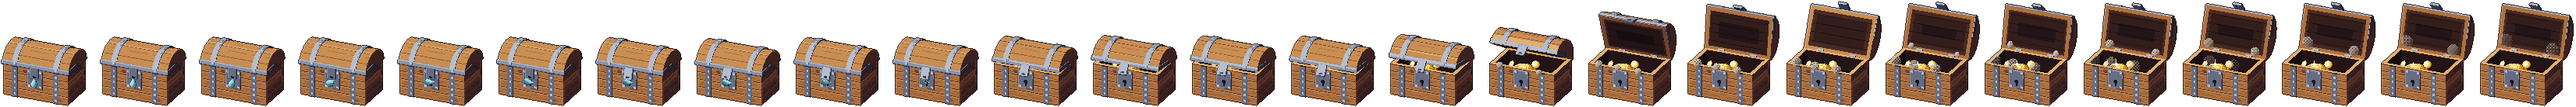
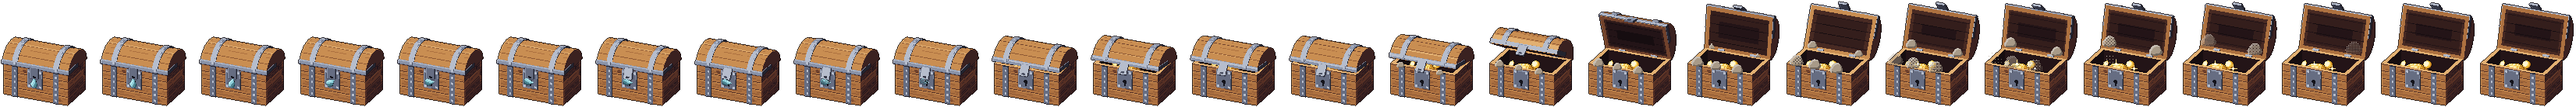
wip(props): сундуки — клубы пыли, конец полос чистый, тесты
Claude-Session: https://claude.ai/code/session_018QnrYRe8jfmREkVPy3Dca8

diff --git a/src/lib/props-pixel-chests.test.ts b/src/lib/props-pixel-chests.test.ts
@@ -1,0 +1,144 @@
+import path from 'node:path';
+import { describe, expect, it } from 'vitest';
+import type { Px } from './dungeon-art';
+import * as chests from './props-pixel/chests';
+import { LID_OPEN, RES, STRIPS, TIERS, __test, frame } from './props-pixel/chests';
+import { PX } from './props-pixel/sprites-chests';
+import { manifestProblems, pxDiff, sameBytes, seamRatio } from './props-pixel/testkit';
+import type { Res } from './props-pixel/types';
+
+const ROOT = path.resolve(__dirname, '../..');
+
+/** Рамка непрозрачных пикселей кадра: [x0, y0, x1, y1]. */
+function bbox(p: Px): [number, number, number, number] {
+  const b: [number, number, number, number] = [p.w, p.h, -1, -1];
+  for (let y = 0; y < p.h; y++)
+    for (let x = 0; x < p.w; x++)
+      if (p.data[(y * p.w + x) * 4 + 3] > 0) {
+        b[0] = Math.min(b[0], x);
+        b[1] = Math.min(b[1], y);
+        b[2] = Math.max(b[2], x);
+        b[3] = Math.max(b[3], y);
+      }
+  return b;
+}
+
+const resOf = (name: string): Res[] => (STRIPS[name].res ?? ['s', 'l']) as Res[];
+
+describe('пиксельные сундуки', () => {
+  it('кадр детерминирован, размер холста — по разрешению; вращение только крупное', () => {
+    for (const name of Object.keys(STRIPS))
+      for (const res of resOf(name)) {
+        const a = frame(name, 1, res);
+        expect([a.w, a.h]).toEqual([RES[res].cw, RES[res].ch]);
+        expect(sameBytes(a, frame(name, 1, res))).toBe(true);
+      }
+    expect(STRIPS['mystery-spin'].res).toEqual(['l']);
+  });
+
+  it('манифест и файлы сходятся с рисовальщиком', () => {
+    expect(manifestProblems(chests, PX, ROOT)).toEqual([]);
+  });
+
+  it('петли без шва: покой всех пяти и вращение', () => {
+    for (const k of ['common', 'rare', 'epic', 'legend', 'mystery'])
+      expect(seamRatio(chests, `idle-${k}`, 's'), k).toBeLessThanOrEqual(1);
+    expect(seamRatio(chests, 'mystery-spin', 'l')).toBeLessThanOrEqual(1);
+  });
+
+  it('вращение: кадр 0 — тот же тёмный сундук, что в покое; два оборота за 0,9 с', () => {
+    expect(sameBytes(frame('mystery-spin', 0, 'l'), frame('idle-mystery', 0, 'l'))).toBe(true);
+    const st = STRIPS['mystery-spin'];
+    expect(st.frames / st.fps).toBeGreaterThan(0.85);
+    expect(st.frames / st.fps).toBeLessThan(0.95);
+    const y = (i: number) => __test.poseOf('mystery-spin', i / st.fps).yaw;
+    expect(y(st.frames) - y(0)).toBeCloseTo(4 * Math.PI, 6);
+  });
+
+  it('метки открытия по порядку и внутри полосы; якорь замка у всех ярусов один', () => {
+    for (const t of TIERS) {
+      const st = STRIPS[`open-${t}`];
+      const m = st.marks!;
+      expect(m.turn).toBeLessThan(m.latch);
+      expect(m.latch).toBeLessThan(m.lidOpen);
+      expect(m.lidOpen).toBeLessThanOrEqual(m.peak);
+      expect(m.peak).toBeLessThan(st.frames - 4);
+      expect(st.anchors?.lock).toEqual(STRIPS[`idle-${t}`].anchors?.lock);
+    }
+    // Старшим — дольше: лестница редкости в длине открытия и в моменте крышки.
+    const len = TIERS.map((t) => STRIPS[`open-${t}`].frames);
+    expect([...len].sort((a, b) => a - b)).toEqual(len);
+    const lid = TIERS.map((t) => STRIPS[`open-${t}`].marks!.lidOpen);
+    expect([...lid].sort((a, b) => a - b)).toEqual(lid);
+  });
+
+  it('ключ поворачивается и тает до того, как тронется крышка; защёлка — до крышки', () => {
+    for (const t of TIERS) {
+      const st = STRIPS[`open-${t}`];
+      const m = st.marks!;
+      const P = (i: number) => __test.poseOf(`open-${t}`, i / st.fps);
+      expect(P(0).keyVis).toBe(1);
+      expect(P(0).key).toBe(0);
+      expect(P(m.latch).key).toBeCloseTo(Math.PI / 2, 3);
+      expect(P(m.latch).hasp).toBeGreaterThan(0);
+      for (let i = 0; i < m.lidOpen; i++) expect(P(i).lid, `${t} ${i}`).toBeLessThan(0.25);
+      expect(P(m.lidOpen + 1).keyVis).toBe(0);
+    }
+  });
+
+  it('последний кадр открытия — покой: крышка на упоре, эффекты кончились', () => {
+    for (const t of TIERS) {
+      const name = `open-${t}`;
+      const n = STRIPS[name].frames;
+      const o = __test.poseOf(name, (n - 1) / STRIPS[name].fps);
+      expect(o.lid).toBeCloseTo(LID_OPEN, 6);
+      expect([o.keyVis, o.beam, o.flash, o.leak, o.lift, o.shx, o.roll]).toEqual([0, 0, 0, 0, 0, 0, 0]);
+      expect([o.sz, o.sxy]).toEqual([1, 1]);
+      // Два последних кадра одинаковы: пыль, искры и монеты погасли раньше.
+      for (const res of ['s', 'l'] as Res[])
+        expect(sameBytes(frame(name, n - 1, res), frame(name, n - 2, res)), `${name}/${res}`).toBe(
+          true,
+        );
+    }
+  });
+
+  it('кадр 0 покоя — закрытая иконка; открытие начинается с неё же (разница — только ключ)', () => {
+    for (const t of TIERS) {
+      const p = __test.poseOf(`idle-${t}`, 0);
+      expect(p.sheen).toBe(-1);
+      expect([p.lid, p.lift, p.twinkle, p.keyVis]).toEqual([0, 0, 0, 0]);
+      const d = pxDiff(frame(`open-${t}`, 0, 's'), frame(`idle-${t}`, 0, 's'));
+      expect(d, t).toBeGreaterThan(0);
+      expect(d, t).toBeLessThan(0.03);
+    }
+  });
+
+  it('крышка на задней петле: открытая поднимается над закрытой, дно стоит на месте', () => {
+    for (const t of TIERS) {
+      const shut = bbox(frame(`idle-${t}`, 0, 'l'));
+      const open = bbox(frame(`open-${t}`, -1 + STRIPS[`open-${t}`].frames, 'l'));
+      // Крышка встаёт вверх и назад — выше закрытой минимум на треть высоты корпуса.
+      expect(shut[1] - open[1], t).toBeGreaterThan(20);
+      // Дно и левый (передний) бок — те же: сундук не сдвинулся, крышка не вылезла вперёд.
+      expect(Math.abs(open[3] - shut[3]), t).toBeLessThanOrEqual(1);
+      expect(Math.abs(open[0] - shut[0]), t).toBeLessThanOrEqual(3);
+      // Сундук повёрнут задом вправо: откинутая назад крышка выходит вправо, но немного.
+      expect(open[2] - shut[2], t).toBeGreaterThanOrEqual(0);
+      expect(open[2] - shut[2], t).toBeLessThanOrEqual(16);
+    }
+  });
+
+  it('ничего не касается края холста (запас на свет и монеты)', () => {
+    for (const name of ['open-legend', 'open-epic', 'mystery-spin'])
+      for (const res of resOf(name)) {
+        const n = STRIPS[name].frames;
+        for (let i = 0; i < n; i += 3) {
+          const [x0, y0, x1, y1] = bbox(frame(name, i, res));
+          if (x1 < 0) continue;
+          expect(x0 > 0 && y0 > 0 && x1 < RES[res].cw - 1 && y1 < RES[res].ch - 1, `${name}/${res} #${i}`).toBe(
+            true,
+          );
+        }
+      }
+  });
+});

diff --git a/src/lib/props-pixel/chests.ts b/src/lib/props-pixel/chests.ts
@@ -1554,15 +1554,16 @@ function openPose(tier: Tier, t: number): Pose {
       [0.33, 0.5],
       [0.4, 0.62],
     ]);
+    // Тёплая щель горит и в покое (0,32): полоса начинается с того же света.
     o.leak =
       kf(t, [
-        [0.06, 0],
-        [0.25, 0.4],
+        [0, 0.32],
+        [0.25, 0.42],
         [0.9, 1],
         [1.0, 1],
         [1.05, 0],
       ]) *
-      (0.85 + 0.15 * Math.sin(t * 40));
+      (1 - 0.15 * (0.5 - 0.5 * Math.cos(t * 40)));
     if (t > 0.25 && t < 0.93) {
       const u = (t - 0.25) / 0.68;
       const a = 0.4 + 1.6 * u * u;
@@ -1608,7 +1609,7 @@ function openPose(tier: Tier, t: number): Pose {
     o.inner = kf(t, [
       [1.04, 0],
       [1.1, 1],
-      [2.25, 0.75],
+      [2.0, 0.75],
     ]);
     o.beam = kf(t, [
       [1.07, 0],
@@ -1720,19 +1721,28 @@ function sparkle(p: Px, x: number, y: number, d: number, life: number, col: RGBA
   }
 }
 
-/** Пятно-клуб пыли: круг, светлый верх-слева, проявление шахматкой. */
+/** Клуб пыли: три круга (крупный и два мельче снизу по бокам), светлая кромка сверху-слева,
+ *  тёмная снизу-справа, проявление шахматкой. */
+const PUFF: [number, number, number][] = [
+  [0, 0, 1],
+  [-0.62, 0.3, 0.66],
+  [0.6, 0.34, 0.6],
+];
 function puff(p: Px, x: number, y: number, d: number, r: number, vis: number, base: RGBA): void {
   const R = r * RR;
   const lite = mixc(base, WHITE, 0.35);
   const dark = mixc(base, INK, 0.35);
+  const inside = (px: number, py: number) =>
+    PUFF.some(([cx, cy, cr]) => (px - x - cx * R) ** 2 + (py - y - cy * R) ** 2 <= (cr * R) ** 2);
+  const s = Math.max(0.8, R * 0.3);
+  // Сплошной, пока не погас на 40%: шахматка только в конце, клуб не рябит с первого кадра.
+  const v = Math.min(1, vis / 0.6);
   for (let yy = Math.floor(y - R); yy <= Math.ceil(y + R); yy++)
-    for (let xx = Math.floor(x - R); xx <= Math.ceil(x + R); xx++) {
-      const dx = xx + 0.5 - x;
-      const dy = yy + 0.5 - y;
-      const q = (dx * dx + dy * dy) / (R * R);
-      if (q > 1) continue;
-      if (!dith(xx, yy, vis)) continue;
-      const c = dx + dy < -R * 0.3 ? lite : dx + dy > R * 0.6 ? dark : base;
+    for (let xx = Math.floor(x - R * 1.4); xx <= Math.ceil(x + R * 1.4); xx++) {
+      const px = xx + 0.5;
+      const py = yy + 0.5;
+      if (!inside(px, py) || !dith(xx, yy, v)) continue;
+      const c = !inside(px - s, py - s) ? lite : !inside(px + s, py + s) ? dark : base;
       put(p, xx, yy, d, c);
     }
 }
@@ -2116,24 +2126,29 @@ function openFx(p: Px, f: CFrame, tier: Tier, t: number, o: Pose): void {
   if (tier === 'common') {
     // Пыль из щели крышки и у петель, когда крышка трогается и бьётся об упор.
     const puffs: [number, V3, number][] = [
-      [0.6, [-12, D2 + 1, H + 0.5], 0],
-      [0.62, [10, D2 + 1, H + 0.5], 1],
-      [0.64, [-1, D2 + 1.5, H + 1], 2],
-      [0.76, [-14, -D2 - 1, H + 1], 3],
-      [0.78, [12, -D2 - 1, H + 1], 4],
+      [0.56, [-12, D2 + 1, H + 0.5], 0],
+      [0.58, [10, D2 + 1, H + 0.5], 1],
+      [0.6, [-1, D2 + 1.5, H + 1], 2],
+      [0.68, [-14, -D2 - 1, H + 1], 3],
+      [0.7, [12, -D2 - 1, H + 1], 4],
     ];
+    // Клубы гаснут до последнего кадра (он же открытая иконка).
     for (const [t0, w, j] of puffs) {
-      const u = (t - t0) / 0.32;
+      const u = (t - t0) / 0.28;
       if (u < 0 || u > 1) continue;
       const pw = chestPt(o, [w[0] + (rnd(j, 3) - 0.5) * 4 * u, w[1] + 2 * u, w[2] + 5 * u]);
       const [x, y, d] = sp(pw);
       puff(p, x, y, d + 1, 1.4 + 2.2 * u, 1 - u * u, hx('#a89a88'));
     }
-    // Блик на монете.
-    const life = (t - peak) / 0.28;
-    if (life > 0 && life < 1) {
-      const gp = chestPt(o, [-5, 0, LK.heap - 0.5]);
-      const [x, y, d] = sp(gp);
+    // Блики на монетах: два подряд, гаснут к концу полосы.
+    const glints: [number, number, V3][] = [
+      [peak, 0.24, [-5, 0, LK.heap - 0.5]],
+      [peak + 0.08, 0.17, [6, 2, LK.heap - 0.4]],
+    ];
+    for (const [g0, dur, w] of glints) {
+      const life = (t - g0) / dur;
+      if (life <= 0 || life >= 1) continue;
+      const [x, y, d] = sp(chestPt(o, w));
       sparkle(p, x, y, d + 30, life, GOLD[6], WHITE);
     }
     return;
@@ -2183,8 +2198,9 @@ function openFx(p: Px, f: CFrame, tier: Tier, t: number, o: Pose): void {
   const nSp = tier === 'rare' ? 10 : tier === 'epic' ? 12 : 18;
   const spEnd = tier === 'rare' ? 0.62 : 1.1;
   for (let j = 0; j < nSp; j++) {
-    const t0 = peak + rnd(j, 11) * (tier === 'legend' ? 0.8 : 0.25);
-    const life = (t - t0) / (0.3 + rnd(j, 12) * 0.3);
+    // Последняя искра гаснет раньше конца полосы (у легендарного — к кадру 50).
+    const t0 = peak + rnd(j, 11) * (tier === 'legend' ? 0.45 : 0.25);
+    const life = (t - t0) / (0.3 + rnd(j, 12) * (tier === 'legend' ? 0.25 : 0.3));
     if (life <= 0 || life >= 1 || t > peak + spEnd) continue;
     const a = rnd(j, 13) * PI * 2;
     const sp0 = 10 + rnd(j, 14) * 14;

diff --git a/src/lib/props-pixel/sprites-chests.ts b/src/lib/props-pixel/sprites-chests.ts
@@ -67,7 +67,7 @@ export const PX: PxManifest = {
       anchors: { lock: [39.8, 68.7] },
       s: { x: 0, y: -10, w: 53, h: 57, cols: 26 },
       l: { x: 3, y: -23, w: 127, h: 138, cols: 26 },
-      rev: '75c059af',
+      rev: '8bdae1a4',
     },
     'open-rare': {
       n: 30,
@@ -87,7 +87,7 @@ export const PX: PxManifest = {
       anchors: { lock: [39.8, 68.7] },
       s: { x: -13, y: -37, w: 75, h: 87, cols: 40 },
       l: { x: -37, y: -92, w: 195, h: 215, cols: 40 },
-      rev: '41229f65',
+      rev: '7e2ae08b',
     },
     'open-legend': {
       n: 54,
@@ -97,7 +97,7 @@ export const PX: PxManifest = {
       anchors: { lock: [39.8, 68.7] },
       s: { x: -25, y: -65, w: 95, h: 117, cols: 54 },
       l: { x: -61, y: -162, w: 239, h: 289, cols: 54 },
-      rev: 'd6fe7c89',
+      rev: 'ac38b798',
     },
   },
 };
